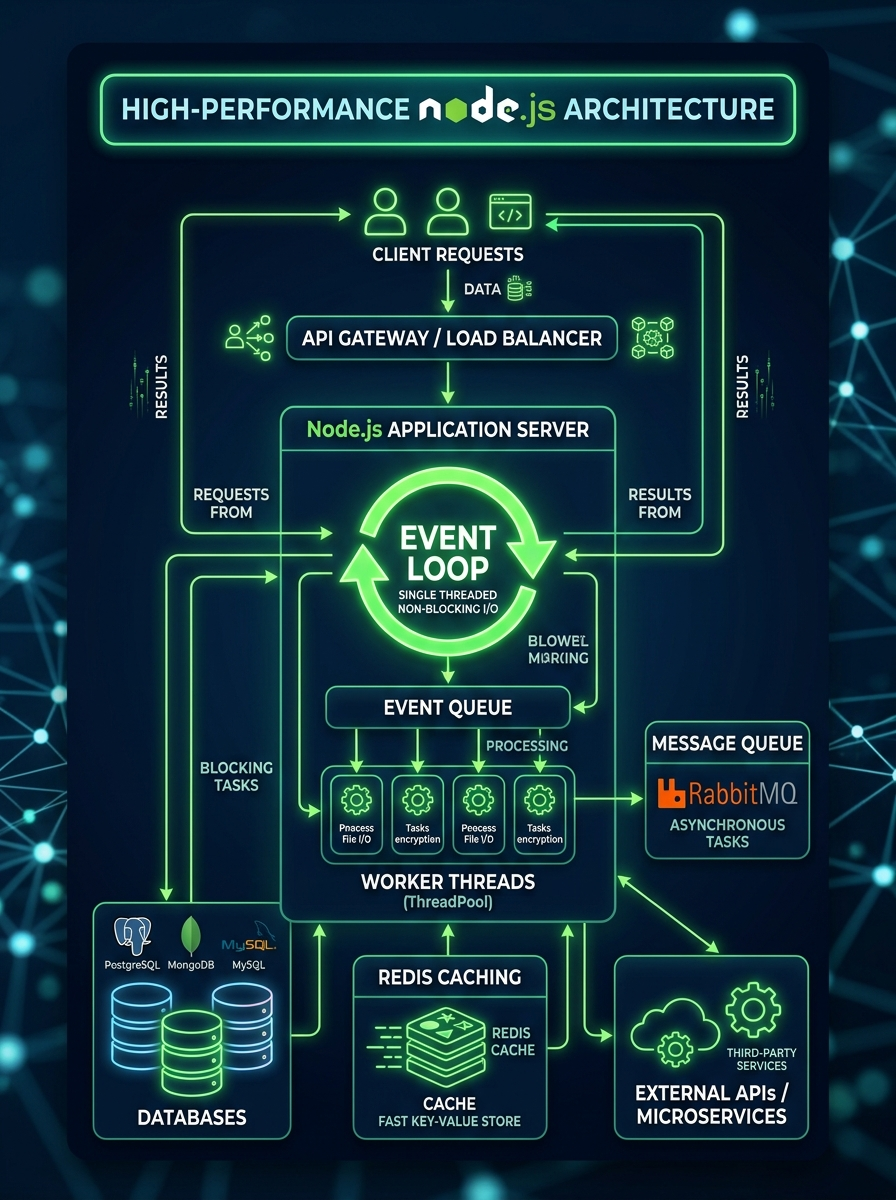
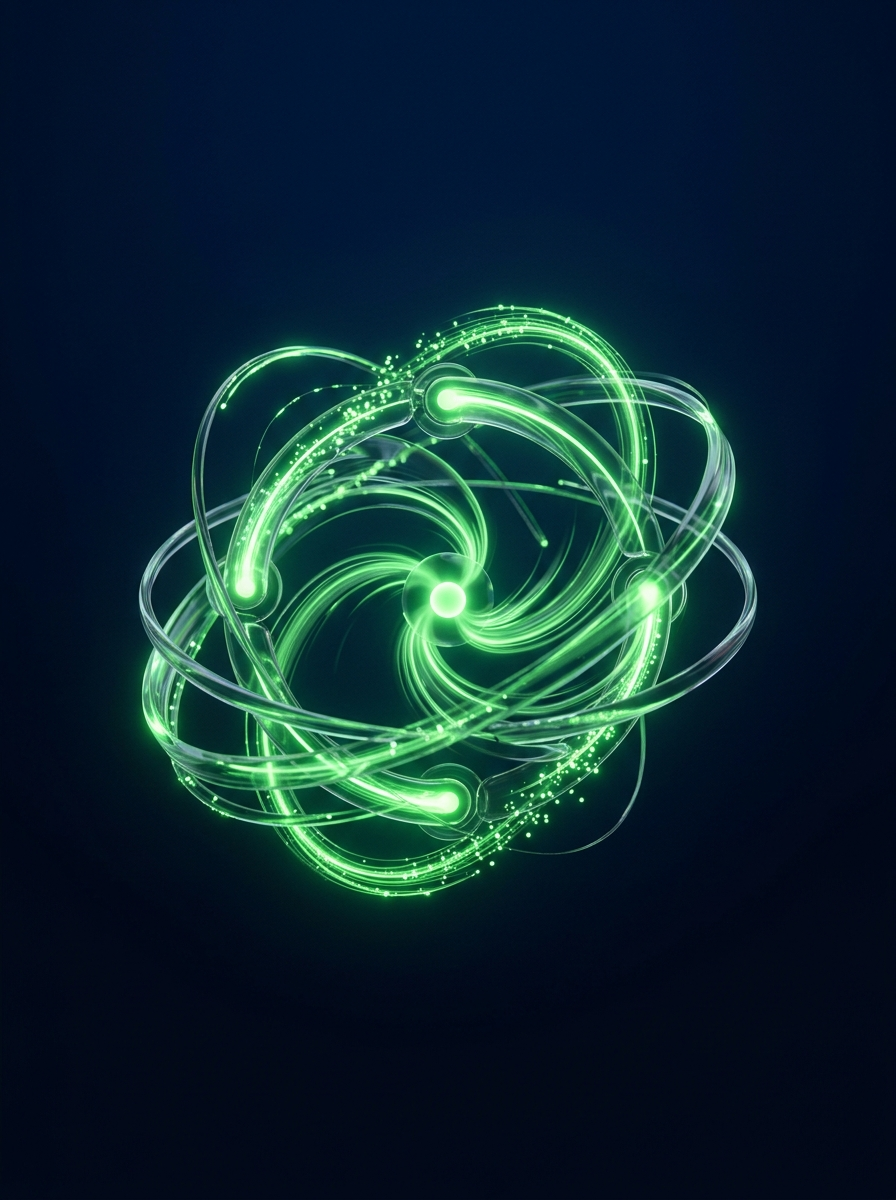
Generate clean 3D conceptual graphic for Why Choose section, and restrict section image heights strictly to text heights using absolute positioning

diff --git a/aws-development-services.html b/aws-development-services.html
@@ -606,13 +606,22 @@ td.mob-top-0 {padding-top:0px !important;}
         /* Align section images to stretch to the exact height of their text columns */
         @media screen and (min-width: 768px) {
             .google-ads-content {
+                position: relative !important;
                 display: flex !important;
-                align-items: stretch !important;
+                flex-direction: row !important;
+            }
+            .google-ads-content .ads-text {
+                width: 55% !important;
+                flex: 0 0 55% !important;
             }
             .google-ads-content .ads-image {
-                display: flex !important;
-                height: auto !important;
+                position: absolute !important;
+                top: 0 !important;
+                right: 0 !important;
+                bottom: 0 !important;
+                width: 40% !important;
                 margin: 0 !important;
+                display: flex !important;
             }
             .google-ads-content .ads-image img {
                 width: 100% !important;
@@ -622,13 +631,23 @@ td.mob-top-0 {padding-top:0px !important;}
             }
             
             .solutions-section {
+                position: relative !important;
                 display: flex !important;
-                align-items: stretch !important;
+                flex-direction: row !important;
+            }
+            .solutions-section .content-column {
+                width: 55% !important;
+                flex: 0 0 55% !important;
+                margin-left: 45% !important;
             }
             .solutions-section .image-column {
-                display: flex !important;
-                height: auto !important;
+                position: absolute !important;
+                top: 0 !important;
+                left: 0 !important;
+                bottom: 0 !important;
+                width: 40% !important;
                 margin: 0 !important;
+                display: flex !important;
             }
             .solutions-section .image-column img {
                 width: 100% !important;

diff --git a/aws-services-clean.html b/aws-services-clean.html
@@ -606,13 +606,22 @@ td.mob-top-0 {padding-top:0px !important;}
         /* Align section images to stretch to the exact height of their text columns */
         @media screen and (min-width: 768px) {
             .google-ads-content {
+                position: relative !important;
                 display: flex !important;
-                align-items: stretch !important;
+                flex-direction: row !important;
+            }
+            .google-ads-content .ads-text {
+                width: 55% !important;
+                flex: 0 0 55% !important;
             }
             .google-ads-content .ads-image {
-                display: flex !important;
-                height: auto !important;
+                position: absolute !important;
+                top: 0 !important;
+                right: 0 !important;
+                bottom: 0 !important;
+                width: 40% !important;
                 margin: 0 !important;
+                display: flex !important;
             }
             .google-ads-content .ads-image img {
                 width: 100% !important;
@@ -622,13 +631,23 @@ td.mob-top-0 {padding-top:0px !important;}
             }
             
             .solutions-section {
+                position: relative !important;
                 display: flex !important;
-                align-items: stretch !important;
+                flex-direction: row !important;
+            }
+            .solutions-section .content-column {
+                width: 55% !important;
+                flex: 0 0 55% !important;
+                margin-left: 45% !important;
             }
             .solutions-section .image-column {
-                display: flex !important;
-                height: auto !important;
+                position: absolute !important;
+                top: 0 !important;
+                left: 0 !important;
+                bottom: 0 !important;
+                width: 40% !important;
                 margin: 0 !important;
+                display: flex !important;
             }
             .solutions-section .image-column img {
                 width: 100% !important;

diff --git a/ml-development-services.html b/ml-development-services.html
@@ -606,13 +606,22 @@ td.mob-top-0 {padding-top:0px !important;}
         /* Align section images to stretch to the exact height of their text columns */
         @media screen and (min-width: 768px) {
             .google-ads-content {
+                position: relative !important;
                 display: flex !important;
-                align-items: stretch !important;
+                flex-direction: row !important;
+            }
+            .google-ads-content .ads-text {
+                width: 55% !important;
+                flex: 0 0 55% !important;
             }
             .google-ads-content .ads-image {
-                display: flex !important;
-                height: auto !important;
+                position: absolute !important;
+                top: 0 !important;
+                right: 0 !important;
+                bottom: 0 !important;
+                width: 40% !important;
                 margin: 0 !important;
+                display: flex !important;
             }
             .google-ads-content .ads-image img {
                 width: 100% !important;
@@ -622,13 +631,23 @@ td.mob-top-0 {padding-top:0px !important;}
             }
             
             .solutions-section {
+                position: relative !important;
                 display: flex !important;
-                align-items: stretch !important;
+                flex-direction: row !important;
+            }
+            .solutions-section .content-column {
+                width: 55% !important;
+                flex: 0 0 55% !important;
+                margin-left: 45% !important;
             }
             .solutions-section .image-column {
-                display: flex !important;
-                height: auto !important;
+                position: absolute !important;
+                top: 0 !important;
+                left: 0 !important;
+                bottom: 0 !important;
+                width: 40% !important;
                 margin: 0 !important;
+                display: flex !important;
             }
             .solutions-section .image-column img {
                 width: 100% !important;

diff --git a/ml-services-clean.html b/ml-services-clean.html
@@ -606,13 +606,22 @@ td.mob-top-0 {padding-top:0px !important;}
         /* Align section images to stretch to the exact height of their text columns */
         @media screen and (min-width: 768px) {
             .google-ads-content {
+                position: relative !important;
                 display: flex !important;
-                align-items: stretch !important;
+                flex-direction: row !important;
+            }
+            .google-ads-content .ads-text {
+                width: 55% !important;
+                flex: 0 0 55% !important;
             }
             .google-ads-content .ads-image {
-                display: flex !important;
-                height: auto !important;
+                position: absolute !important;
+                top: 0 !important;
+                right: 0 !important;
+                bottom: 0 !important;
+                width: 40% !important;
                 margin: 0 !important;
+                display: flex !important;
             }
             .google-ads-content .ads-image img {
                 width: 100% !important;
@@ -622,13 +631,23 @@ td.mob-top-0 {padding-top:0px !important;}
             }
             
             .solutions-section {
+                position: relative !important;
                 display: flex !important;
-                align-items: stretch !important;
+                flex-direction: row !important;
+            }
+            .solutions-section .content-column {
+                width: 55% !important;
+                flex: 0 0 55% !important;
+                margin-left: 45% !important;
             }
             .solutions-section .image-column {
-                display: flex !important;
-                height: auto !important;
+                position: absolute !important;
+                top: 0 !important;
+                left: 0 !important;
+                bottom: 0 !important;
+                width: 40% !important;
                 margin: 0 !important;
+                display: flex !important;
             }
             .solutions-section .image-column img {
                 width: 100% !important;

diff --git a/nodejs-development-services.html b/nodejs-development-services.html
@@ -607,13 +607,22 @@ td.mob-top-0 {padding-top:0px !important;}
         /* Align section images to stretch to the exact height of their text columns */
         @media screen and (min-width: 768px) {
             .google-ads-content {
+                position: relative !important;
                 display: flex !important;
-                align-items: stretch !important;
+                flex-direction: row !important;
+            }
+            .google-ads-content .ads-text {
+                width: 55% !important;
+                flex: 0 0 55% !important;
             }
             .google-ads-content .ads-image {
-                display: flex !important;
-                height: auto !important;
+                position: absolute !important;
+                top: 0 !important;
+                right: 0 !important;
+                bottom: 0 !important;
+                width: 40% !important;
                 margin: 0 !important;
+                display: flex !important;
             }
             .google-ads-content .ads-image img {
                 width: 100% !important;
@@ -623,13 +632,23 @@ td.mob-top-0 {padding-top:0px !important;}
             }
             
             .solutions-section {
+                position: relative !important;
                 display: flex !important;
-                align-items: stretch !important;
+                flex-direction: row !important;
+            }
+            .solutions-section .content-column {
+                width: 55% !important;
+                flex: 0 0 55% !important;
+                margin-left: 45% !important;
             }
             .solutions-section .image-column {
-                display: flex !important;
-                height: auto !important;
+                position: absolute !important;
+                top: 0 !important;
+                left: 0 !important;
+                bottom: 0 !important;
+                width: 40% !important;
                 margin: 0 !important;
+                display: flex !important;
             }
             .solutions-section .image-column img {
                 width: 100% !important;

diff --git a/nodejs-services-clean.html b/nodejs-services-clean.html
@@ -607,13 +607,22 @@ td.mob-top-0 {padding-top:0px !important;}
         /* Align section images to stretch to the exact height of their text columns */
         @media screen and (min-width: 768px) {
             .google-ads-content {
+                position: relative !important;
                 display: flex !important;
-                align-items: stretch !important;
+                flex-direction: row !important;
+            }
+            .google-ads-content .ads-text {
+                width: 55% !important;
+                flex: 0 0 55% !important;
             }
             .google-ads-content .ads-image {
-                display: flex !important;
-                height: auto !important;
+                position: absolute !important;
+                top: 0 !important;
+                right: 0 !important;
+                bottom: 0 !important;
+                width: 40% !important;
                 margin: 0 !important;
+                display: flex !important;
             }
             .google-ads-content .ads-image img {
                 width: 100% !important;
@@ -623,13 +632,23 @@ td.mob-top-0 {padding-top:0px !important;}
             }
             
             .solutions-section {
+                position: relative !important;
                 display: flex !important;
-                align-items: stretch !important;
+                flex-direction: row !important;
+            }
+            .solutions-section .content-column {
+                width: 55% !important;
+                flex: 0 0 55% !important;
+                margin-left: 45% !important;
             }
             .solutions-section .image-column {
-                display: flex !important;
-                height: auto !important;
+                position: absolute !important;
+                top: 0 !important;
+                left: 0 !important;
+                bottom: 0 !important;
+                width: 40% !important;
                 margin: 0 !important;
+                display: flex !important;
             }
             .solutions-section .image-column img {
                 width: 100% !important;